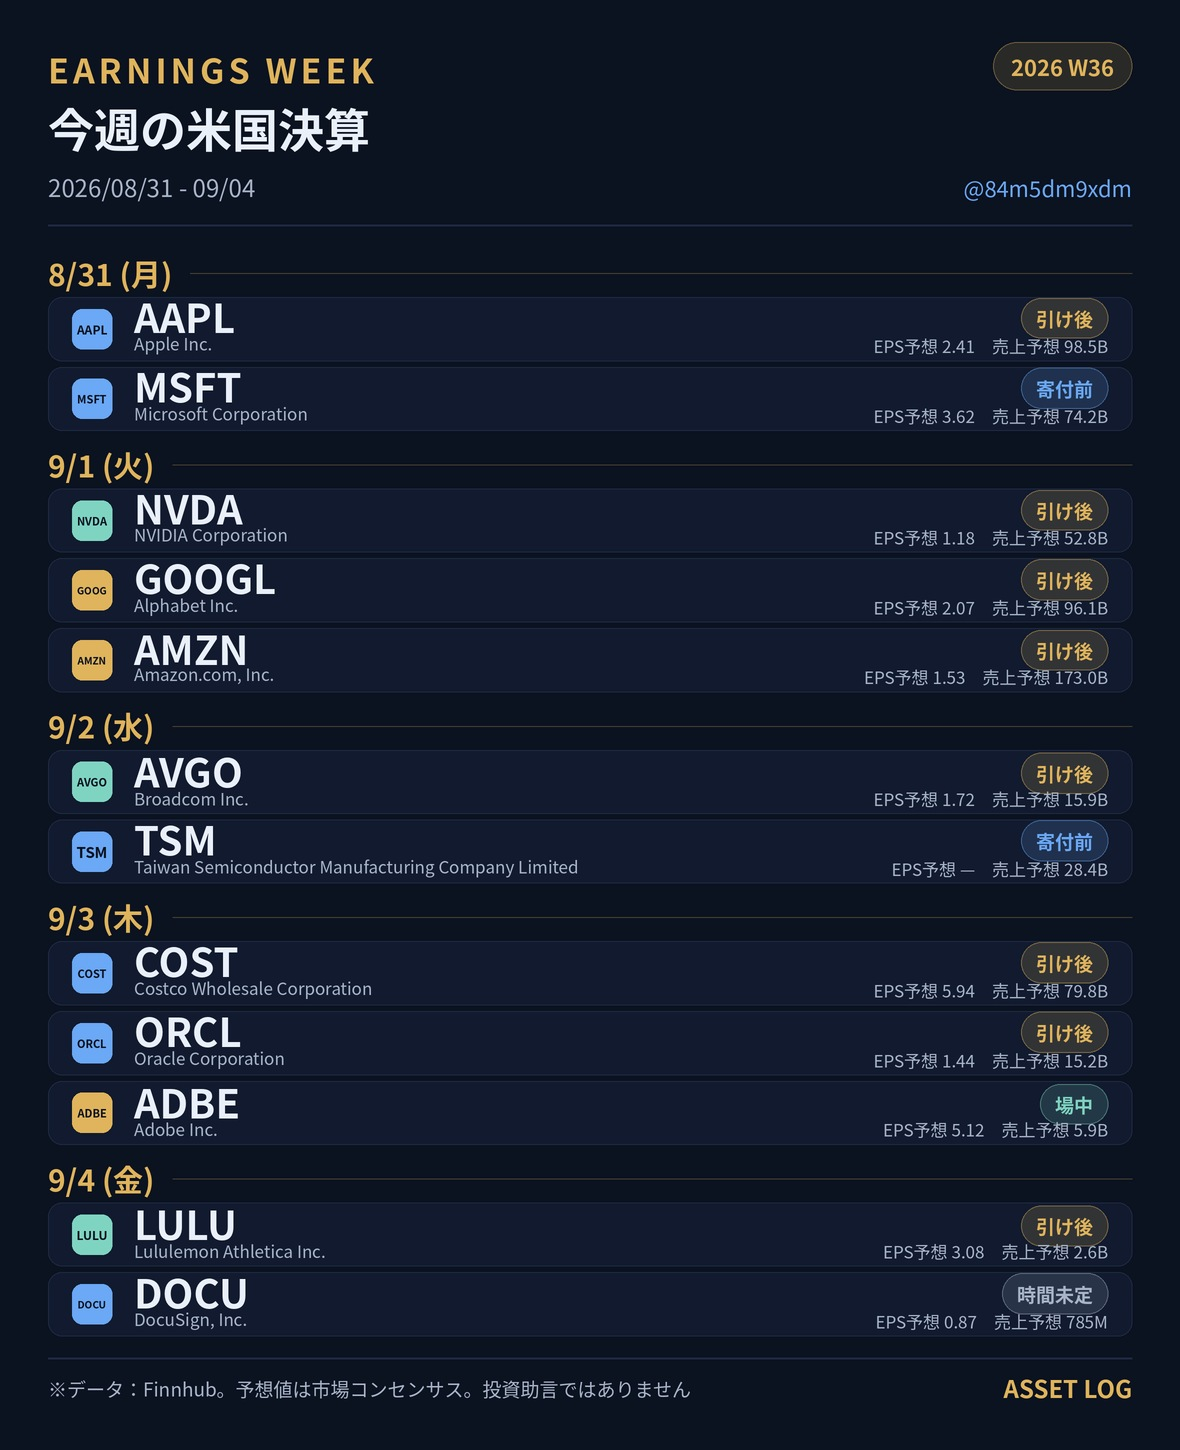
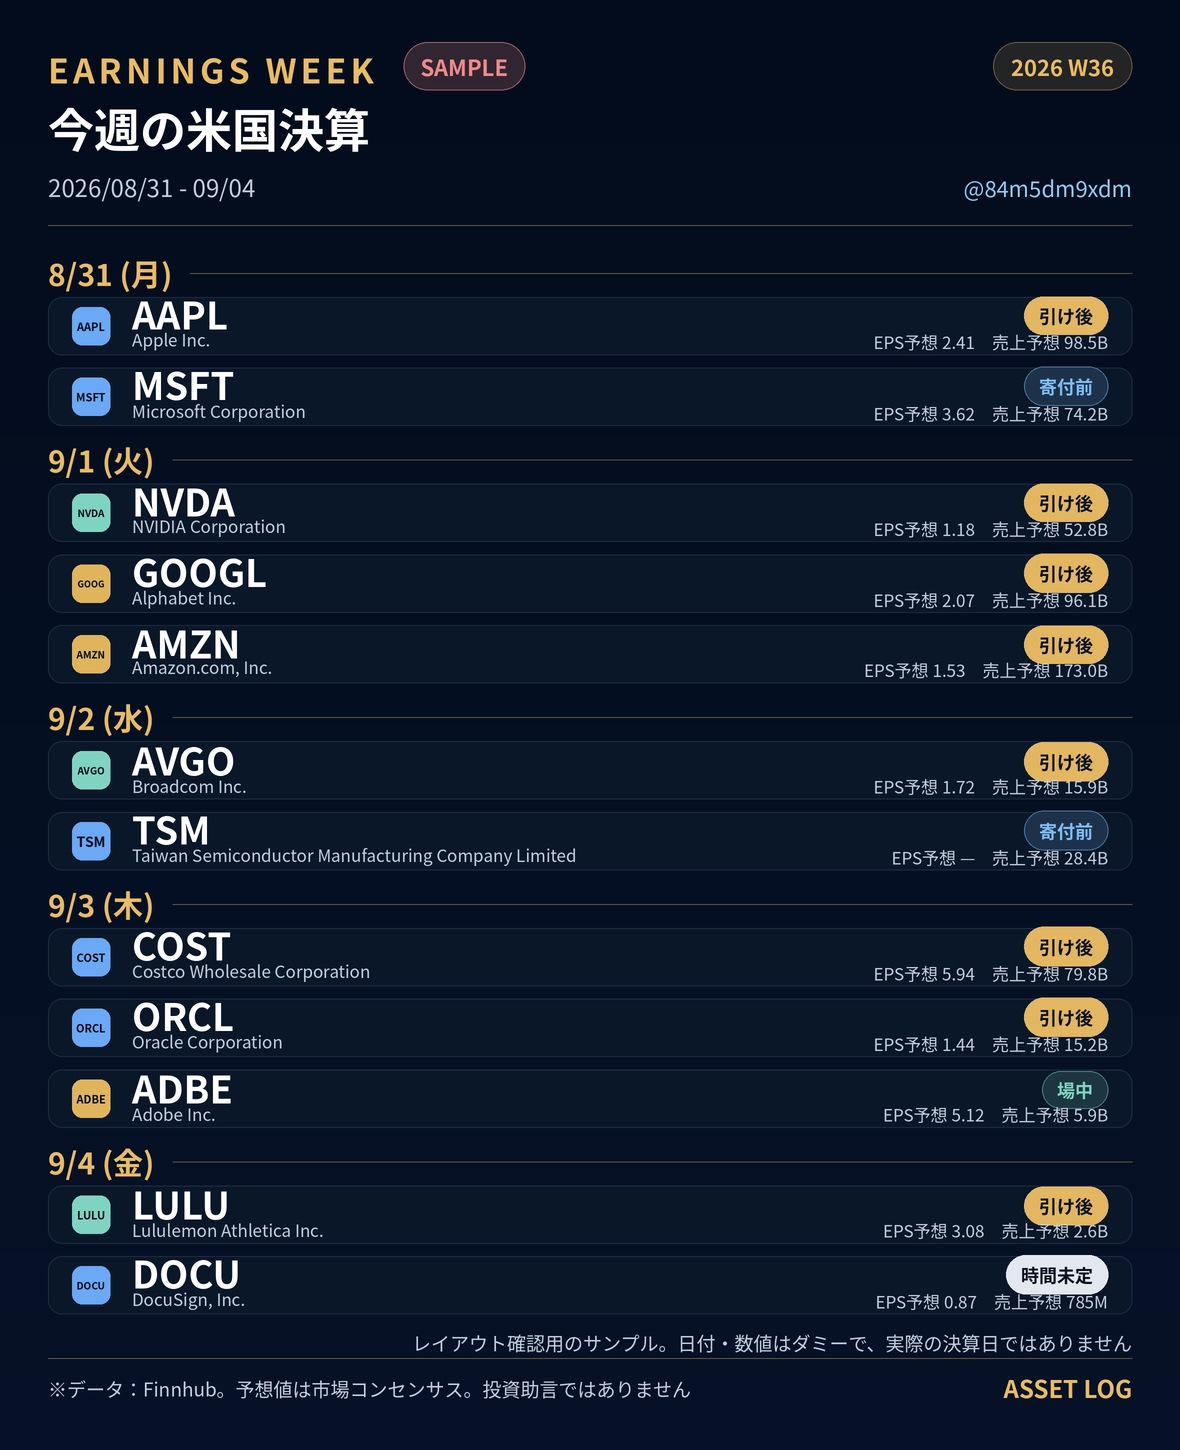
earnings-week: 参考デザインに合わせて画像を作り直す
受け取ったモックアップに合わせた変更。

- 背景を暗く（#030C1C→下端 #061127 の淡いグラデーション）、
  本文を明るく（ティッカー #FFFFFF / 企業名・予想値 #C2CDDD）
- 罫線（ヘッダー下・日付見出しの右・フッター上）を金の薄敷きに
- 発表タイミングのバッジを様式化。引け後＝金の塗り、寄付前＝青の枠線、
  場中＝青緑の枠線、時間未定＝淡い塗り。theme.json の timing_styles で変えられる
- ロゴの白パッドを廃止してカードに直接置く。ただし黒一色の透過ロゴは
  暗い背景で消えるため、不透明部の明るさが閾値未満のときだけ白パッドを敷く

あわせて --sample の画像に SAMPLE バッジと「日付・数値はダミー」の注記を
入れた。サンプルの作り物の日付が実際の決算日として読まれないようにする。

Claude-Session: https://claude.ai/code/session_0153sT5eo5Ar2VGkt8MHkBWE

diff --git a/src/earnings_week/render.py b/src/earnings_week/render.py
@@ -91,10 +91,10 @@ def timing_label(hour: str | None, theme: dict) -> str:
     return labels.get((hour or "").lower(), labels[""])
 
 
-def timing_color(hour: str | None, theme: dict) -> str:
-    c = theme["colors"]
-    return {"bmo": c["blue"], "amc": c["gold"], "dmh": c["teal"]}.get(
-        (hour or "").lower(), c["dim"])
+def timing_style(hour: str | None, theme: dict) -> dict:
+    """バッジの見た目（solid=塗り / outline=枠線）。theme.json で差し替えられる。"""
+    styles = theme["timing_styles"]
+    return styles.get((hour or "").lower(), styles[""])
 
 
 def fmt_day_heading(day: date, theme: dict) -> str:
@@ -243,12 +243,25 @@ class Canvas:
 
     def __init__(self, width: int, height: int, bg: str,
                  scale: int = SUPERSAMPLE, font_family: str = "Noto Sans CJK JP",
-                 font_index: int = 0):
+                 font_index: int = 0, bg_bottom: str | None = None):
         self.w, self.h, self.scale = width, height, scale
         self.family, self.findex = font_family, font_index
         self.img = Image.new("RGB", (width * scale, height * scale), _hex(bg))
+        if bg_bottom and bg_bottom != bg:
+            self._paint_gradient(bg, bg_bottom)
         self.draw = ImageDraw.Draw(self.img)
         self.report = QAReport()
+
+    def _paint_gradient(self, top: str, bottom: str) -> None:
+        """上から下へごく淡く色を変える（参考デザインの下がわずかに明るい背景）。"""
+        a, b = _hex(top), _hex(bottom)
+        h = self.img.height
+        column = Image.new("RGB", (1, h))
+        px = column.load()
+        for y in range(h):
+            t = y / max(1, h - 1)
+            px[0, y] = tuple(round(a[i] + (b[i] - a[i]) * t) for i in range(3))
+        self.img.paste(column.resize((self.img.width, h)), (0, 0))
 
     # -- フォント --------------------------------------------------
     def font(self, size: int, bold: bool = False):
@@ -351,10 +364,24 @@ def _rounded_mask(size: int, radius: int) -> Image.Image:
     return mask
 
 
-def _logo_tile(path: str, size: int, radius: int, pad_color: str) -> Image.Image | None:
-    """白い角丸パッドの上にロゴを置いたタイルを作る。
+def mean_luminance(image: Image.Image, alpha_floor: int = 32) -> float:
+    """不透明な画素の平均的な明るさ（0〜255）。暗いロゴの判定に使う。"""
+    rgba = image.convert("RGBA")
+    total = count = 0.0
+    for r, g, b, a in rgba.getdata():
+        if a >= alpha_floor:
+            total += 0.299 * r + 0.587 * g + 0.114 * b
+            count += 1
+    return total / count if count else 255.0
 
-    透過ロゴが暗い背景に埋もれるのを避けるため、必ず白地を敷く。
+
+def _logo_tile(path: str, size: int, radius: int, theme: dict
+               ) -> Image.Image | None:
+    """カードに載せるロゴのタイル（RGBA）を作る。
+
+    参考デザインに合わせ **白パッドは敷かない**。ただし黒一色の透過ロゴは
+    暗い背景で消えてしまうため、不透明部の明るさが閾値を下回るときだけ
+    白い角丸パッドを敷く（読めないロゴを出さないための保険）。
     読めない/壊れたファイルなら None を返し、呼び出し側が代替表示に落とす。
     """
     try:
@@ -363,11 +390,27 @@ def _logo_tile(path: str, size: int, radius: int, pad_color: str) -> Image.Image
     except Exception:  # noqa: BLE001 — 壊れたキャッシュで生成を止めない
         return None
 
-    tile = Image.new("RGBA", (size, size), (*_hex(pad_color), 255))
-    inner = round(size * 0.76)
-    logo.thumbnail((inner, inner), Image.LANCZOS)
-    tile.alpha_composite(logo, ((size - logo.width) // 2, (size - logo.height) // 2))
-    tile.putalpha(_rounded_mask(size, radius))
+    cfg = theme.get("logo", {})
+    threshold = cfg.get("dark_luminance_threshold", 78)
+    inset = cfg.get("inset_ratio", 0.94)
+
+    if mean_luminance(logo) < threshold:
+        # 暗いロゴ: 白い角丸パッドの上に置く
+        tile = Image.new("RGBA", (size, size),
+                         (*_hex(theme["colors"]["logo_pad"]), 255))
+        fitted = logo.copy()
+        fitted.thumbnail((round(size * 0.76), round(size * 0.76)), Image.LANCZOS)
+        tile.alpha_composite(fitted, ((size - fitted.width) // 2,
+                                      (size - fitted.height) // 2))
+        tile.putalpha(_rounded_mask(size, radius))
+        return tile
+
+    # 明るい/色付きのロゴ: 背景を敷かずそのまま置く
+    tile = Image.new("RGBA", (size, size), (0, 0, 0, 0))
+    fitted = logo.copy()
+    fitted.thumbnail((round(size * inset), round(size * inset)), Image.LANCZOS)
+    tile.alpha_composite(fitted, ((size - fitted.width) // 2,
+                                  (size - fitted.height) // 2))
     return tile
 
 
@@ -383,21 +426,43 @@ class RenderResult:
 
 def render_week(companies: list[Company], week_start: date, week_end: date,
                 theme: dict, others: int = 0, handle: str = "@84m5dm9xdm",
-                stale_note: str = "") -> RenderResult:
-    """1週間ぶんの決算カレンダー画像を描いて返す（保存は呼び出し側）。"""
+                stale_note: str = "", sample: bool = False) -> RenderResult:
+    """1週間ぶんの決算カレンダー画像を描いて返す（保存は呼び出し側）。
+
+    sample=True のときは「SAMPLE」表示を必ず入れる。ダミーの日付・数値で
+    描いた画像が本物の決算日として読まれないようにするため。
+    """
     cv_cfg, col, s, lay = (theme["canvas"], theme["colors"],
                            theme["sizes"], theme["layout"])
     W, H = cv_cfg["width"], cv_cfg["height"]
     mx = cv_cfg["margin_x"]
     cv = Canvas(W, H, col["bg"], font_family=theme["font"]["family"],
-                font_index=theme["font"].get("index", 0))
+                font_index=theme["font"].get("index", 0),
+                bg_bottom=col.get("bg_bottom"))
     right = W - mx
+    rule = blend(col.get("rule", col["gold"]), col["bg"],
+                 col.get("rule_alpha", 0.42))
 
     # ---- ヘッダー -------------------------------------------------
     top = cv_cfg["margin_top"]
     cv.text((mx, top), theme["text"]["brand"], s["brand"], col["gold"],
             bold=True, tracking=4, clip=(mx, top - 4, right, top + 60),
             label="brand")
+
+    if sample:
+        stext = theme["text"]["sample_badge"]
+        sw = cv.measure(stext, s["badge_week"], bold=True)
+        sa, sd = cv.metrics(s["badge_week"], bold=True)
+        spill_h = round((sa + sd) + 16)
+        spill = (mx + cv.measure(theme["text"]["brand"], s["brand"], True) + 4 * 13 + 26,
+                 top - 2, 0, 0)
+        spill = (spill[0], top - 2, spill[0] + sw + 34, top - 2 + spill_h)
+        cv.rrect(spill, spill_h / 2, fill=blend(col["down"], col["bg"], 0.20),
+                 outline=blend(col["down"], col["bg"], 0.65), width=1)
+        cv.text(((spill[0] + spill[2]) / 2, (spill[1] + spill[3]) / 2), stext,
+                s["badge_week"], col["down"], bold=True, anchor="mm",
+                clip=(spill[0] + 4, spill[1], spill[2] - 4, spill[3]),
+                label="sample_badge")
 
     badge_text = fmt_week_badge(week_start)
     bw = cv.measure(badge_text, s["badge_week"], bold=True)
@@ -417,16 +482,17 @@ def render_week(companies: list[Company], week_start: date, week_end: date,
     ry = ty + round(s["title"] * 1.5) + 6
     cv.text((mx, ry), fmt_range(week_start, week_end), s["range"], col["dim"],
             clip=(mx, ry - 4, right - 260, ry + s["range"] * 1.6), label="range")
-    cv.text((right, ry + 2), handle, s["handle"], col["blue"], anchor="ra",
+    cv.text((right, ry + 2), handle, s["handle"],
+            col.get("handle", col["blue"]), anchor="ra",
             clip=(right - 260, ry - 4, right, ry + s["handle"] * 1.8),
             label="handle")
 
     div_y = ry + round(s["range"] * 1.6) + 18
-    cv.line((mx, div_y, right, div_y), fill=_hex(col["line"]), width=2)
+    cv.line((mx, div_y, right, div_y), fill=rule, width=1)
 
     # ---- フッター（先に位置を決めて本文の高さを確定させる） -------
     foot_div = H - cv_cfg["margin_bottom"] - 52
-    cv.line((mx, foot_div, right, foot_div), fill=_hex(col["line"]), width=2)
+    cv.line((mx, foot_div, right, foot_div), fill=rule, width=1)
     fy = foot_div + 16
     cv.text((mx, fy), theme["text"]["disclaimer"], s["footer"], col["dim"],
             clip=(mx, fy - 4, right - 190, fy + s["footer"] * 2), label="disclaimer")
@@ -437,6 +503,8 @@ def render_week(companies: list[Company], week_start: date, week_end: date,
 
     body_bottom = foot_div - 22
     notes: list[str] = []
+    if sample:
+        notes.append(theme["text"]["sample_note"])
     if others > 0:
         notes.append(f"ほか{others}社（時価総額の大きい順に{lay['max_companies']}社を掲載）")
     if stale_note:
@@ -463,8 +531,7 @@ def render_week(companies: list[Company], week_start: date, week_end: date,
                 label=f"day:{day}")
         hw = cv.measure(head, s["day_heading"], bold=True)
         rule_y = y + plan.heading_h * 0.55
-        cv.line((mx + hw + 18, rule_y, right, rule_y),
-                fill=blend(col["gold"], col["bg"], 0.28), width=1)
+        cv.line((mx + hw + 18, rule_y, right, rule_y), fill=rule, width=1)
         y += plan.heading_h + plan.heading_gap
 
         for ci, company in enumerate(rows):
@@ -487,11 +554,11 @@ def _draw_card(cv: Canvas, c: Company, x0: float, y0: float, x1: float, y1: floa
     cv.rrect((x0, y0, x1, y1), lay["card_radius"], fill=_hex(col["card"]),
              outline=_hex(col["line"]), width=1)
 
-    # ロゴ（白い角丸パッド。取れなければ配色ブロック＋ティッカー4文字）
+    # ロゴ（カードの上に直接。取れなければ配色ブロック＋ティッカー4文字）
     box = int(round(_clamp(h * lay["logo_box_ratio"], 38, 92)))
     lx, ly = x0 + lay["card_pad_x"], y0 + (h - box) / 2
     tile = _logo_tile(c.logo_path, box * cv.scale,
-                      round(lay["logo_radius"] * cv.scale), col["logo_pad"]) \
+                      round(lay["logo_radius"] * cv.scale), theme) \
         if c.logo_path else None
     if tile is not None:
         cv.paste(tile.convert("RGB"), (lx, ly), tile.split()[-1])
@@ -508,7 +575,7 @@ def _draw_card(cv: Canvas, c: Company, x0: float, y0: float, x1: float, y1: floa
 
     # 右側（発表タイミングのバッジ / 予想値）
     tlabel = timing_label(c.hour, theme)
-    tcolor = timing_color(c.hour, theme)
+    tstyle = timing_style(c.hour, theme)
     tw = cv.measure(tlabel, plan.timing_size, bold=True)
     est = f"EPS予想 {fmt_eps(c.eps_estimate)}　売上予想 {fmt_revenue(c.revenue_estimate)}"
     ew = cv.measure(est, plan.estimate_size)
@@ -539,8 +606,14 @@ def _draw_card(cv: Canvas, c: Company, x0: float, y0: float, x1: float, y1: floa
     badge_cy = top + th / 2
     badge = (right_edge - tw - 30, badge_cy - badge_h / 2,
              right_edge, badge_cy + badge_h / 2)
-    cv.rrect(badge, badge_h / 2, fill=blend(tcolor, col["card"], 0.16),
-             outline=blend(tcolor, col["card"], 0.5), width=1)
+    accent = tstyle["color"]
+    if tstyle.get("mode") == "solid":
+        fill, outline, tcolor = _hex(accent), None, tstyle.get("text", "#0B1220")
+    else:
+        fill = blend(accent, col["card"], 0.16)
+        outline = blend(accent, col["card"], 0.55)
+        tcolor = accent
+    cv.rrect(badge, badge_h / 2, fill=fill, outline=outline, width=1)
     cv.text(((badge[0] + badge[2]) / 2, badge_cy), tlabel, plan.timing_size, tcolor,
             bold=True, anchor="mm",
             clip=(badge[0] + 2, y0 + 2, badge[2], y1 - 2),

diff --git a/tests/test_earnings_week.py b/tests/test_earnings_week.py
@@ -61,6 +61,29 @@ def test_timing_label_unknown_is_not_guessed():
     assert render.timing_label("xxx", THEME) == "時間未定"
 
 
+def test_timing_style_modes():
+    """バッジの様式は theme.json から引く（引け後だけ塗り、他は枠線）。"""
+    assert render.timing_style("amc", THEME)["mode"] == "solid"
+    assert render.timing_style("bmo", THEME)["mode"] == "outline"
+    assert render.timing_style("dmh", THEME)["mode"] == "outline"
+    assert render.timing_style(None, THEME) == THEME["timing_styles"][""]
+    for style in THEME["timing_styles"].values():
+        if style["mode"] == "solid":
+            assert "text" in style        # 塗りには必ず文字色を持たせる
+
+
+def test_dark_logo_gets_a_white_pad():
+    """暗い透過ロゴは背景に埋もれるので白パッドを敷く（それ以外は敷かない）。"""
+    from PIL import Image
+    dark = Image.new("RGBA", (40, 40), (10, 10, 12, 255))
+    bright = Image.new("RGBA", (40, 40), (240, 120, 60, 255))
+    threshold = THEME["logo"]["dark_luminance_threshold"]
+    assert render.mean_luminance(dark) < threshold
+    assert render.mean_luminance(bright) > threshold
+    # 完全な透過は「明るい」扱い（判定対象の画素が無いため落ちないこと）
+    assert render.mean_luminance(Image.new("RGBA", (8, 8), (0, 0, 0, 0))) == 255.0
+
+
 def test_day_heading_and_range():
     assert render.fmt_day_heading(date(2026, 8, 31), THEME) == "8/31 (月)"
     assert render.fmt_range(date(2026, 8, 31), date(2026, 9, 4)) == "2026/08/31 - 09/04"
@@ -149,6 +172,19 @@ def test_rendered_text_shows_dash_for_missing_eps():
     result = render.render_week(comps, date(2026, 8, 31), date(2026, 9, 4), THEME)
     est = [b.text for b in result.report.boxes if b.label.startswith("est:")]
     assert est and "EPS予想 —" in est[0]
+
+
+def test_sample_render_is_marked_as_sample():
+    """ダミーデータの画像が本物の決算日として読まれないよう SAMPLE を出す。"""
+    comps = _sample_companies(3)
+    plain = render.render_week(comps, date(2026, 8, 31), date(2026, 9, 4), THEME)
+    marked = render.render_week(comps, date(2026, 8, 31), date(2026, 9, 4), THEME,
+                                sample=True)
+    assert THEME["text"]["sample_badge"] not in [b.text for b in plain.report.boxes]
+    texts = [b.text for b in marked.report.boxes]
+    assert THEME["text"]["sample_badge"] in texts
+    assert any(THEME["text"]["sample_note"] in t for t in texts)
+    qa.verify(marked.image, marked.report, (1180, 1450))
 
 
 def test_disclaimer_is_always_drawn():

diff --git a/src/earnings_week/main.py b/src/earnings_week/main.py
@@ -161,7 +161,7 @@ def run(args: argparse.Namespace) -> int:
     start, end = week_bounds(week_start)
 
     result = render.render_week(companies, start, end, theme, others=others,
-                                handle=handle)
+                                handle=handle, sample=args.sample)
     qa.verify(result.image, result.report,
               (theme["canvas"]["width"], theme["canvas"]["height"]))
 

diff --git a/src/earnings_week/README.md b/src/earnings_week/README.md
@@ -56,6 +56,8 @@ python -m src.earnings_week.main --offline
 `--sample` は `tests/fixtures/earnings_week_sample.json` だけを読み、
 `output/earnings_week/sample/` と `qa/sample/` にしか書かない。
 **サンプルの数字が本番の出力に混ざることはない。**
+サンプルの日付・EPS・売上はレイアウト検査用の作り物で、実際の決算日ではない
+（画像にも SAMPLE と明記される）。本番の日付は毎回 Finnhub から取る。
 
 終了コード：`0` 生成できた / `2` DATA WAIT（対象0社） / `1` 異常。
 
@@ -76,8 +78,9 @@ APIは週に数百社を返すので `config/watchlist.json` で絞り込む。
 - ドット付きティッカー（`BRK.B` など）は Finnhub 側の表記ゆれがあるため、
   入れる場合は `--week-start` を指定した手動実行で拾えるか確かめる
 
-見た目（配色・級数・余白・最大掲載社数）は `config/theme.json`。
-どちらもコードを触らずに編集できる。
+見た目（配色・級数・余白・最大掲載社数・バッジ様式）は `config/theme.json`。
+どちらもコードを触らずに編集できる。キャンバスも `canvas` を書き換えれば
+追従する（既定は既存シリーズと同じ 1180×1450）。
 
 ## 4. 画像に載る内容
 
@@ -95,11 +98,20 @@ EARNINGS WEEK                                    [2026 W36]
 ```
 
 - 発表タイミング：`bmo` → 寄付前 / `amc` → 引け後 / `dmh` → 場中 /
-  不明 → **時間未定**（引け後と決めつけない）
+  不明 → **時間未定**（引け後と決めつけない）。
+  バッジの様式は `theme.json` の `timing_styles` で決まる。引け後だけ金の塗りで
+  目立たせ、寄付前・場中は枠線、時間未定は淡い塗り
+- ロゴはカードの上に**直接**置く（白いパッドは敷かない）。ただし黒一色の
+  透過ロゴは暗い背景で消えるため、不透明部の明るさが
+  `logo.dark_luminance_threshold` を下回るときだけ白い角丸パッドを敷く
 - ロゴが取れない会社は、ティッカー4文字を配色ブロックに載せて代替する
   （青 `#6BA8F5` / 青緑 `#7FD4C1` / 金 `#E0B45C` からティッカーのハッシュで決定）
+- 罫線（ヘッダー下・日付見出しの右・フッター上）は金を薄く敷いたもの
 - 掲載社数によって行の高さと余白は自動で変わる。12社の週は詰まり、
   数社の週は行を広げて余白で調整する
+- `--sample` で描いた画像には **SAMPLE** バッジと
+  「日付・数値はダミー」の注記が入る。ダミーの日付が本物の決算日として
+  読まれないようにするため
 
 ### 数字の扱い（最重要）
 
